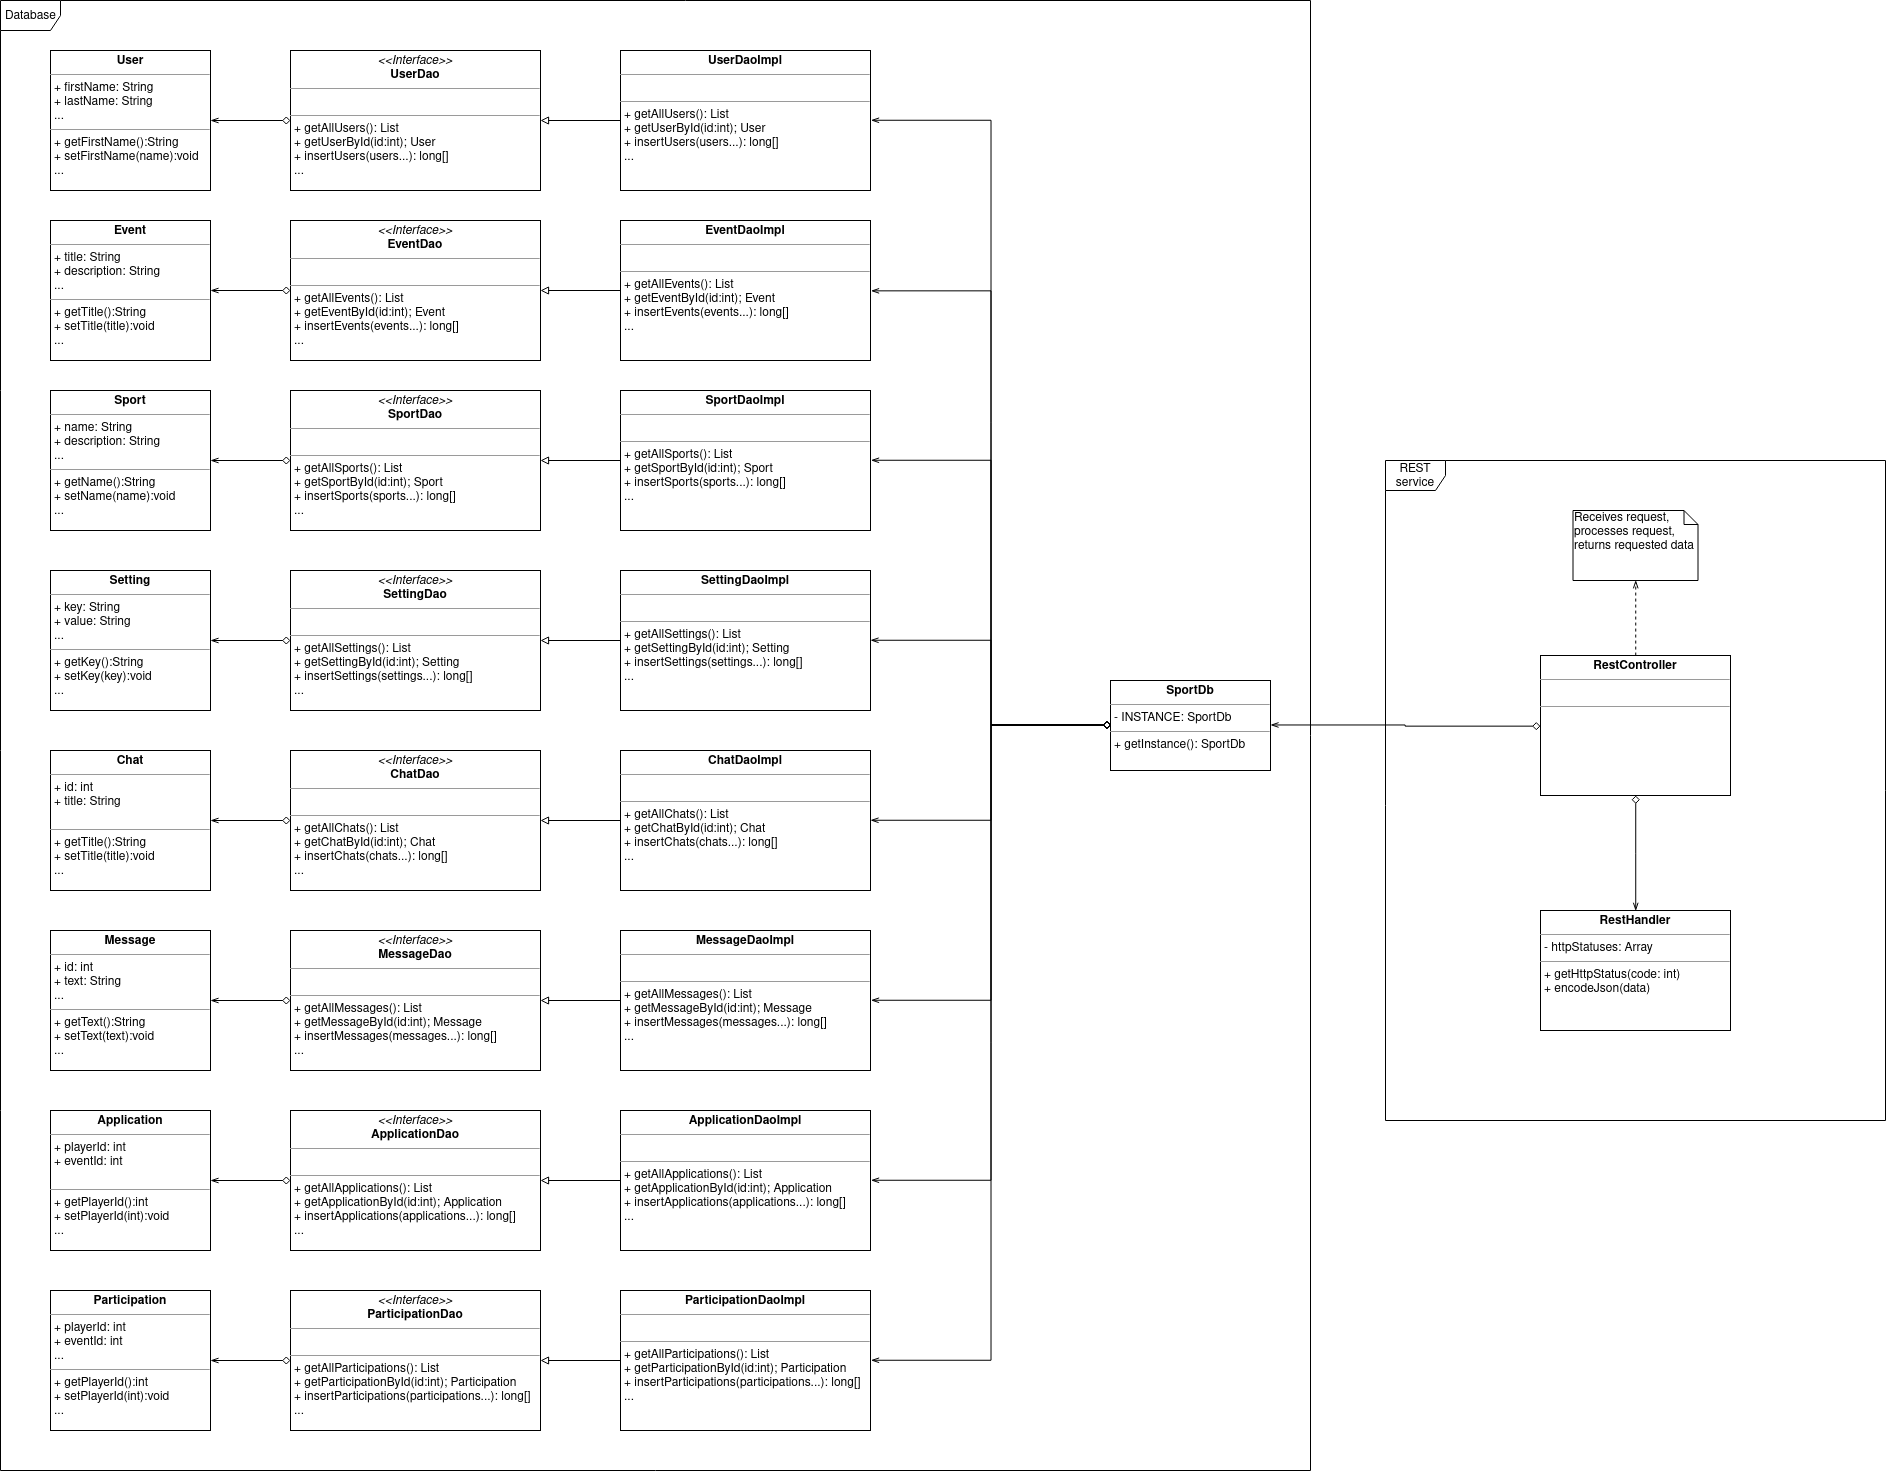
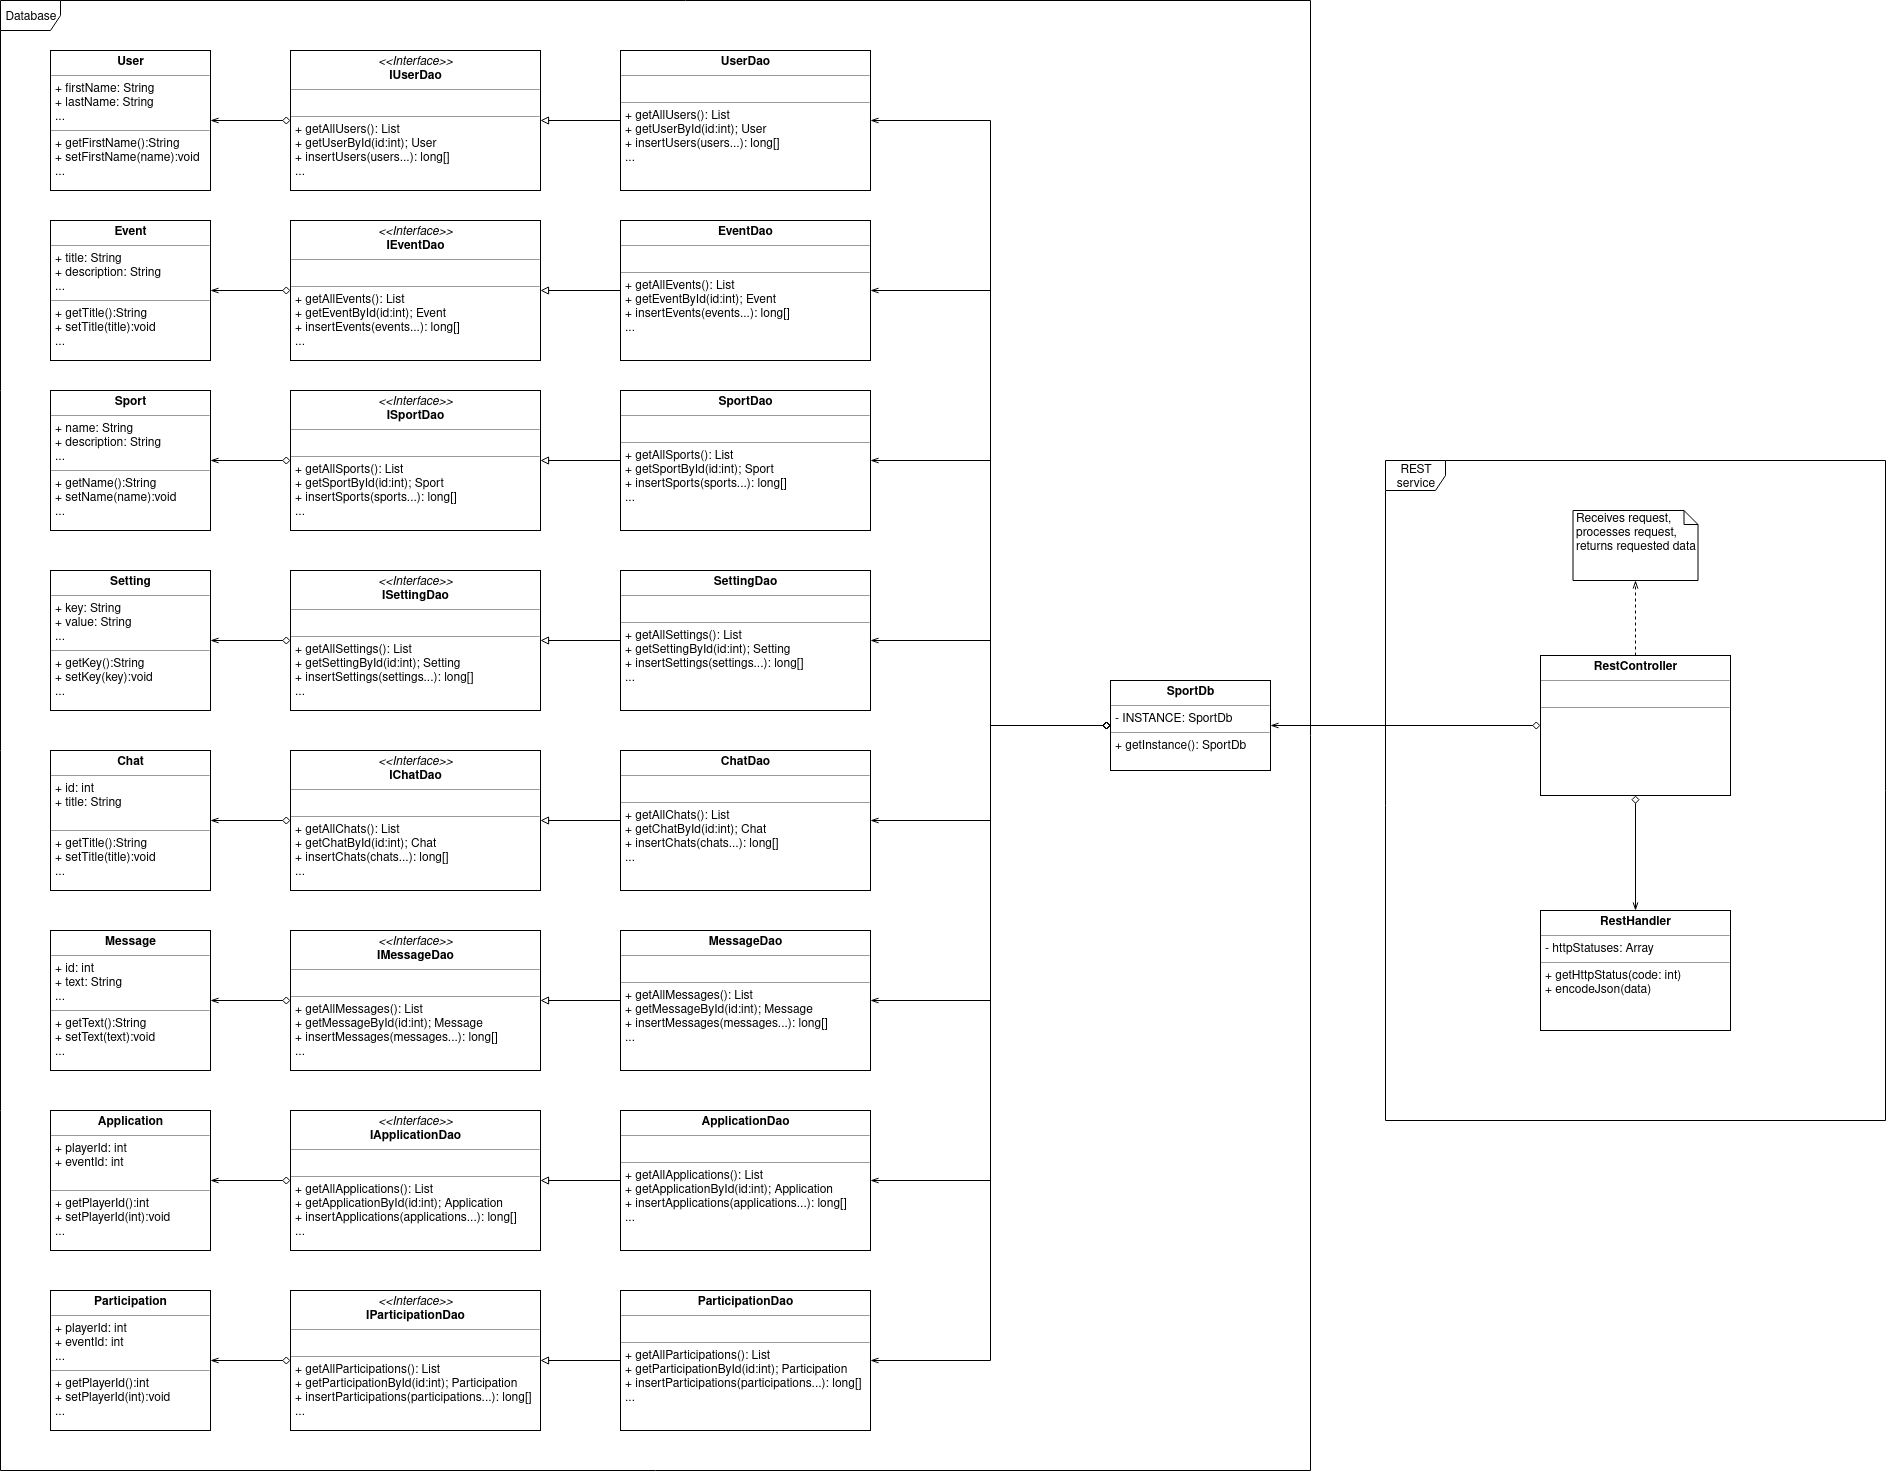
Changed naming for interfaces (added I- prefix) and implementations (removed -Impl suffix)

diff --git a/server/database/dao/ParticipationDao.php b/server/database/dao/ParticipationDao.php
@@ -1,9 +1,9 @@
 <?php
 
-require_once './interfaces/ParticipationDao.php';
+require_once './interfaces/IParticipationDao.php';
 require_once './Database.php';
 
-class ParticipationDaoImpl implements ParticipationDao {
+class ParticipationDao implements IParticipationDao {
     
     public function deleteParticipations($participations) {
         if (is_null($participations)) { return; }

diff --git a/server/database/dao/ApplicationDao.php b/server/database/dao/ApplicationDao.php
@@ -1,9 +1,9 @@
 <?php
 
-require_once './interfaces/ApplicationDao.php';
+require_once './interfaces/IApplicationDao.php';
 require_once './Database.php';
 
-class ApplicationDaoImpl implements ApplicationDao {
+class ApplicationDao implements IApplicationDao {
     
     public function deleteApplications($applications) {
         if (is_null($applications)) { return; }

diff --git a/server/database/dao/MessageDao.php b/server/database/dao/MessageDao.php
@@ -1,9 +1,9 @@
 <?php
 
-require_once './interfaces/MessageDao.php';
+require_once './interfaces/IMessageDao.php';
 require_once './Database.php';
 
-class MessageDaoImpl implements MessageDao {
+class MessageDao implements IMessageDao {
     
     public function deleteMessages($messages) {
         if (is_null($messages)) { return; }

diff --git a/server/database/dao/SettingDao.php b/server/database/dao/SettingDao.php
@@ -1,9 +1,9 @@
 <?php
 
-require_once './interfaces/SettingDao.php';
+require_once './interfaces/ISettingDao.php';
 require_once './Database.php';
 
-class SettingDaoImpl implements SettingDao {
+class SettingDao implements ISettingDao {
     
     public function deleteSettings($settings) {
         if (is_null($sports)) { return; }

diff --git a/server/database/dao/EventDao.php b/server/database/dao/EventDao.php
@@ -1,9 +1,9 @@
 <?php
 
-require_once './interfaces/EventDao.php';
+require_once './interfaces/IEventDao.php';
 require_once './Database.php';
 
-class EventDaoImpl implements EventDao {
+class EventDao implements IEventDao {
     
     public function deleteEvents($events) {
         if (is_null($events)) { return; }

diff --git a/server/database/dao/SportDao.php b/server/database/dao/SportDao.php
@@ -1,9 +1,9 @@
 <?php
 
-require_once './interfaces/SportDao.php';
+require_once './interfaces/ISportDao.php';
 require_once './Database.php';
 
-class SportDaoImpl implements SportDao {
+class SportDao implements ISportDao {
     
     public function deleteSports($sports) {
         if (is_null($sports)) { return; }

diff --git a/server/database/dao/ChatDao.php b/server/database/dao/ChatDao.php
@@ -1,9 +1,9 @@
 <?php
 
-require_once './interfaces/ChatDao.php';
+require_once './interfaces/IChatDao.php';
 require_once './Database.php';
 
-class ChatDaoImpl implements ChatDao {
+class ChatDao implements IChatDao {
     
     public function deleteChats($chats) {
         if (is_null($chats)) { return; }

diff --git a/server/database/dao/UserDao.php b/server/database/dao/UserDao.php
@@ -1,9 +1,9 @@
 <?php
 
-require_once './interfaces/UserDao.php';
+require_once './interfaces/IUserDao.php';
 require_once './Database.php';
 
-class UserDaoImpl implements UserDao {
+class UserDao implements IUserDao {
     
     public function deleteUsers($users) {
         if (is_null($users)) { return; }

diff --git a/server/database/interfaces/IParticipationDao.php b/server/database/interfaces/IParticipationDao.php
@@ -1,6 +1,6 @@
 <?php
 
-interface ParticipationDao {
+interface IParticipationDao {
     public function insertParticipations($participations);
     public function deleteParticipations($participations);
     public function updateParticipations($participations);

diff --git a/server/database/interfaces/IApplicationDao.php b/server/database/interfaces/IApplicationDao.php
@@ -1,6 +1,6 @@
 <?php
 
-interface ApplicationDao {
+interface IApplicationDao {
     public function insertApplications($applications);
     public function deleteApplications($applications);
     public function updateApplications($applications);

diff --git a/server/database/interfaces/IMessageDao.php b/server/database/interfaces/IMessageDao.php
@@ -1,6 +1,6 @@
 <?php
 
-interface MessageDao {
+interface IMessageDao {
     public function insertMessages($messages);
     public function deleteMessages($messages);
     public function updateMessages($messages);

diff --git a/server/database/interfaces/ISettingDao.php b/server/database/interfaces/ISettingDao.php
@@ -1,6 +1,6 @@
 <?php
 
-interface SettingDao {
+interface ISettingDao {
     public function insertSettings($settings);
     public function deleteSettings($settings);
     public function upadteSettings($settings);
